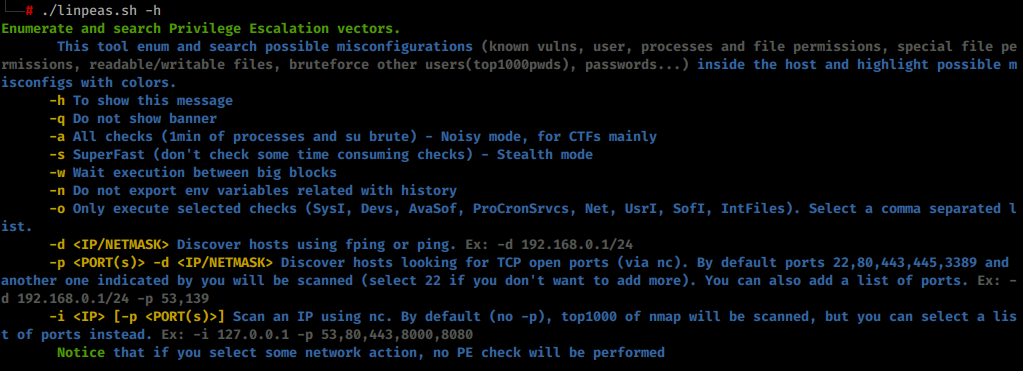
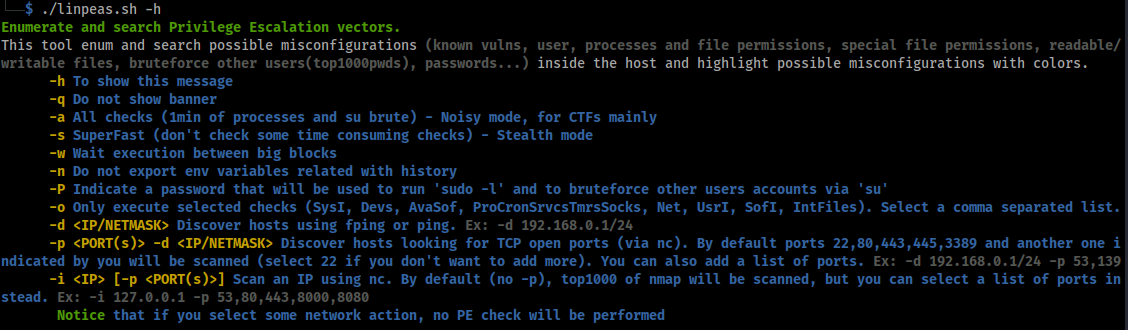
linpeasv2.6.8

Changed region(s): [[0.0, 0.0, 1.0, 0.9697]]

diff --git a/linPEAS/README.md b/linPEAS/README.md
@@ -65,6 +65,7 @@ By default linpeas takes around **2 mins** to complete, but It could take from *
 **Other parameters:**
 - **-a** (all checks) - This will **execute also the check of processes during 1 min, will search more possible hashes inside files, and brute-force each user using `su` with the top2000 passwords.**
 - **-s** (superfast & stealth) - This will bypass some time consuming checks - **Stealth mode** (Nothing will be written to disk)
+- **-P** (Password) - Pass a password that will be used with `sudo -l` and bruteforcing other users
 
 This script has **several lists** included inside of it to be able to **color the results** in order to highlight PE vector.
 
